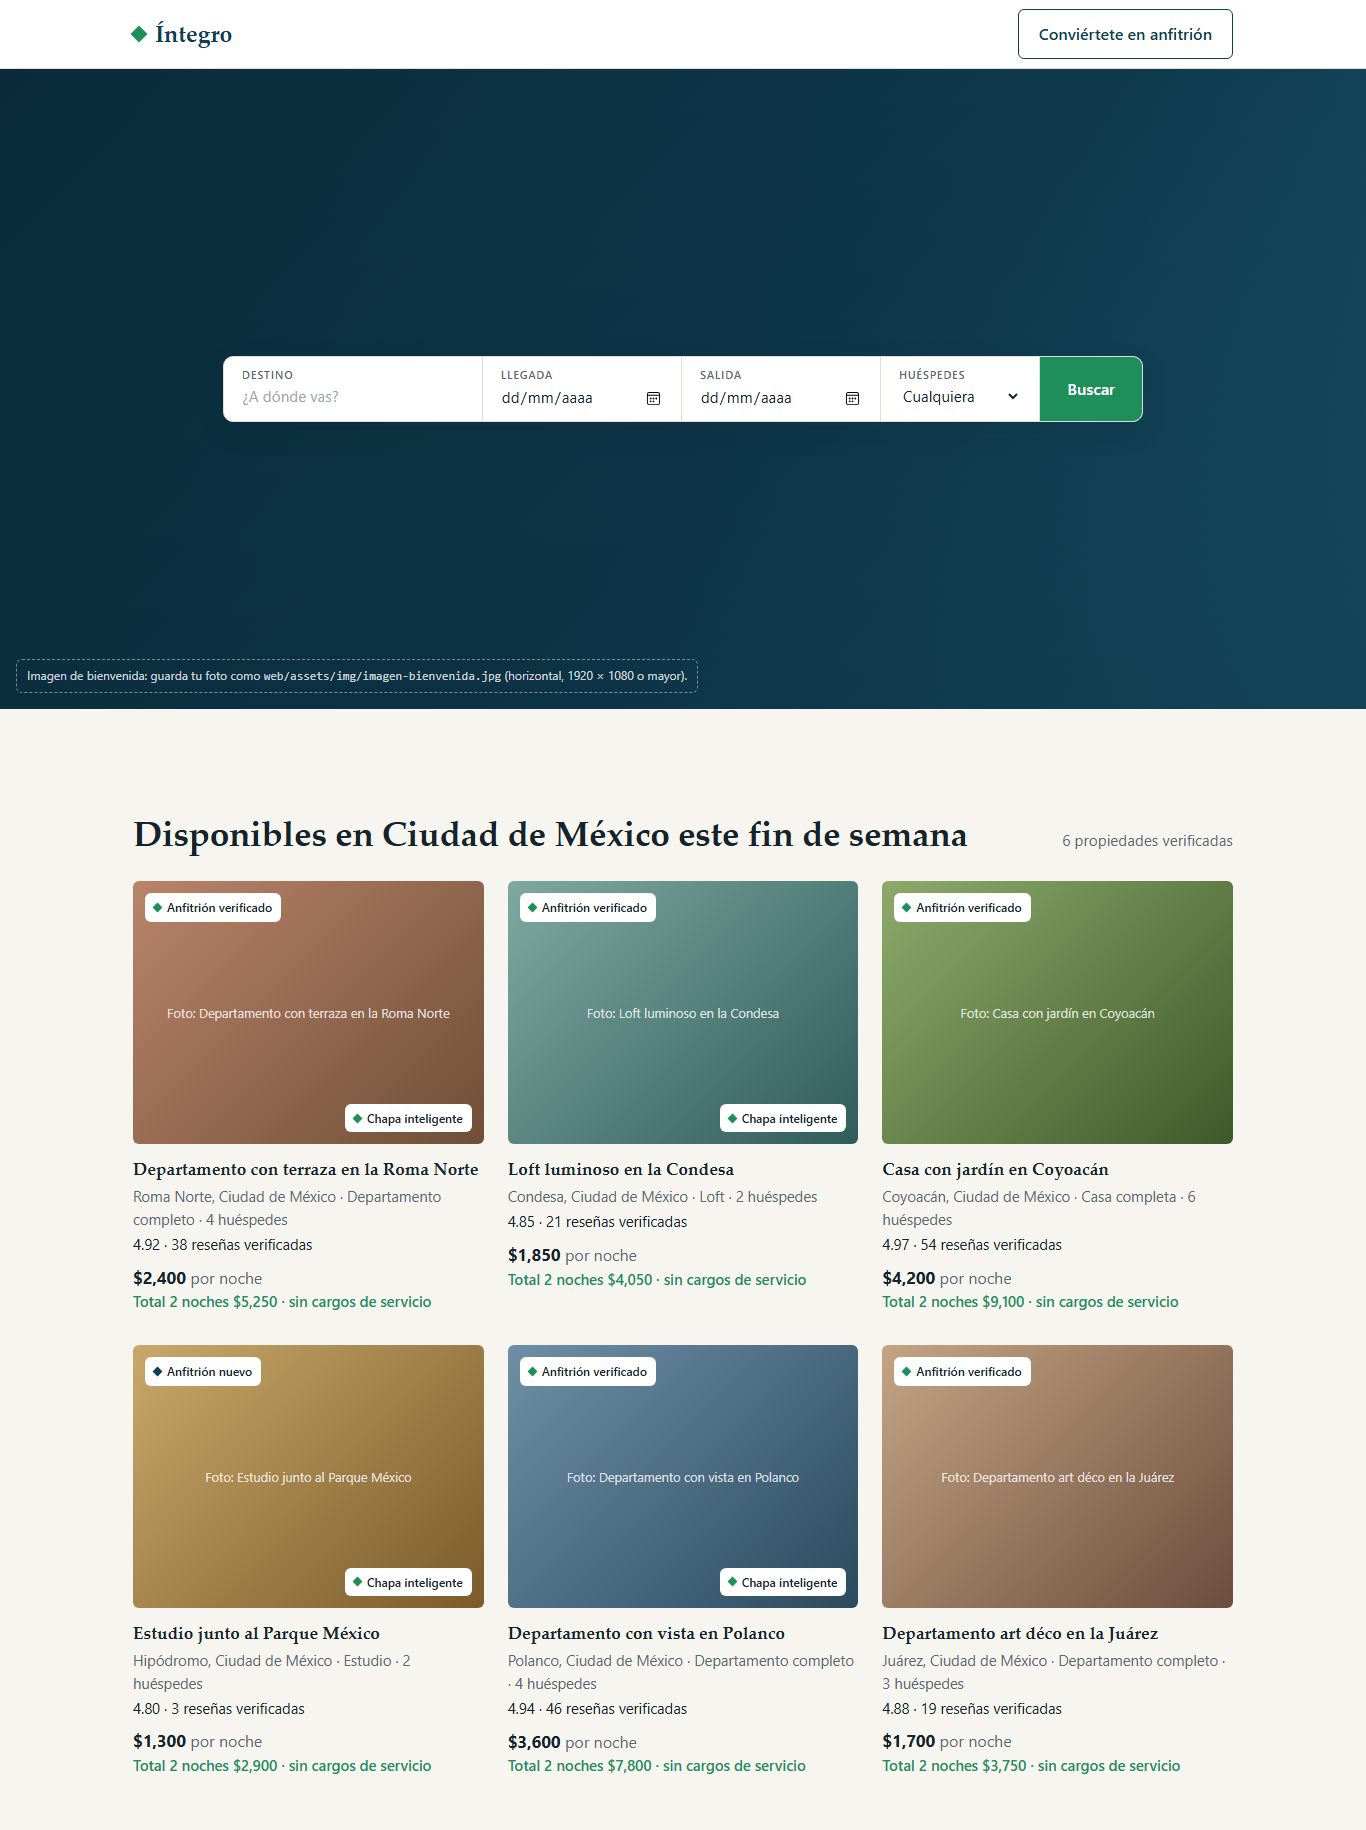
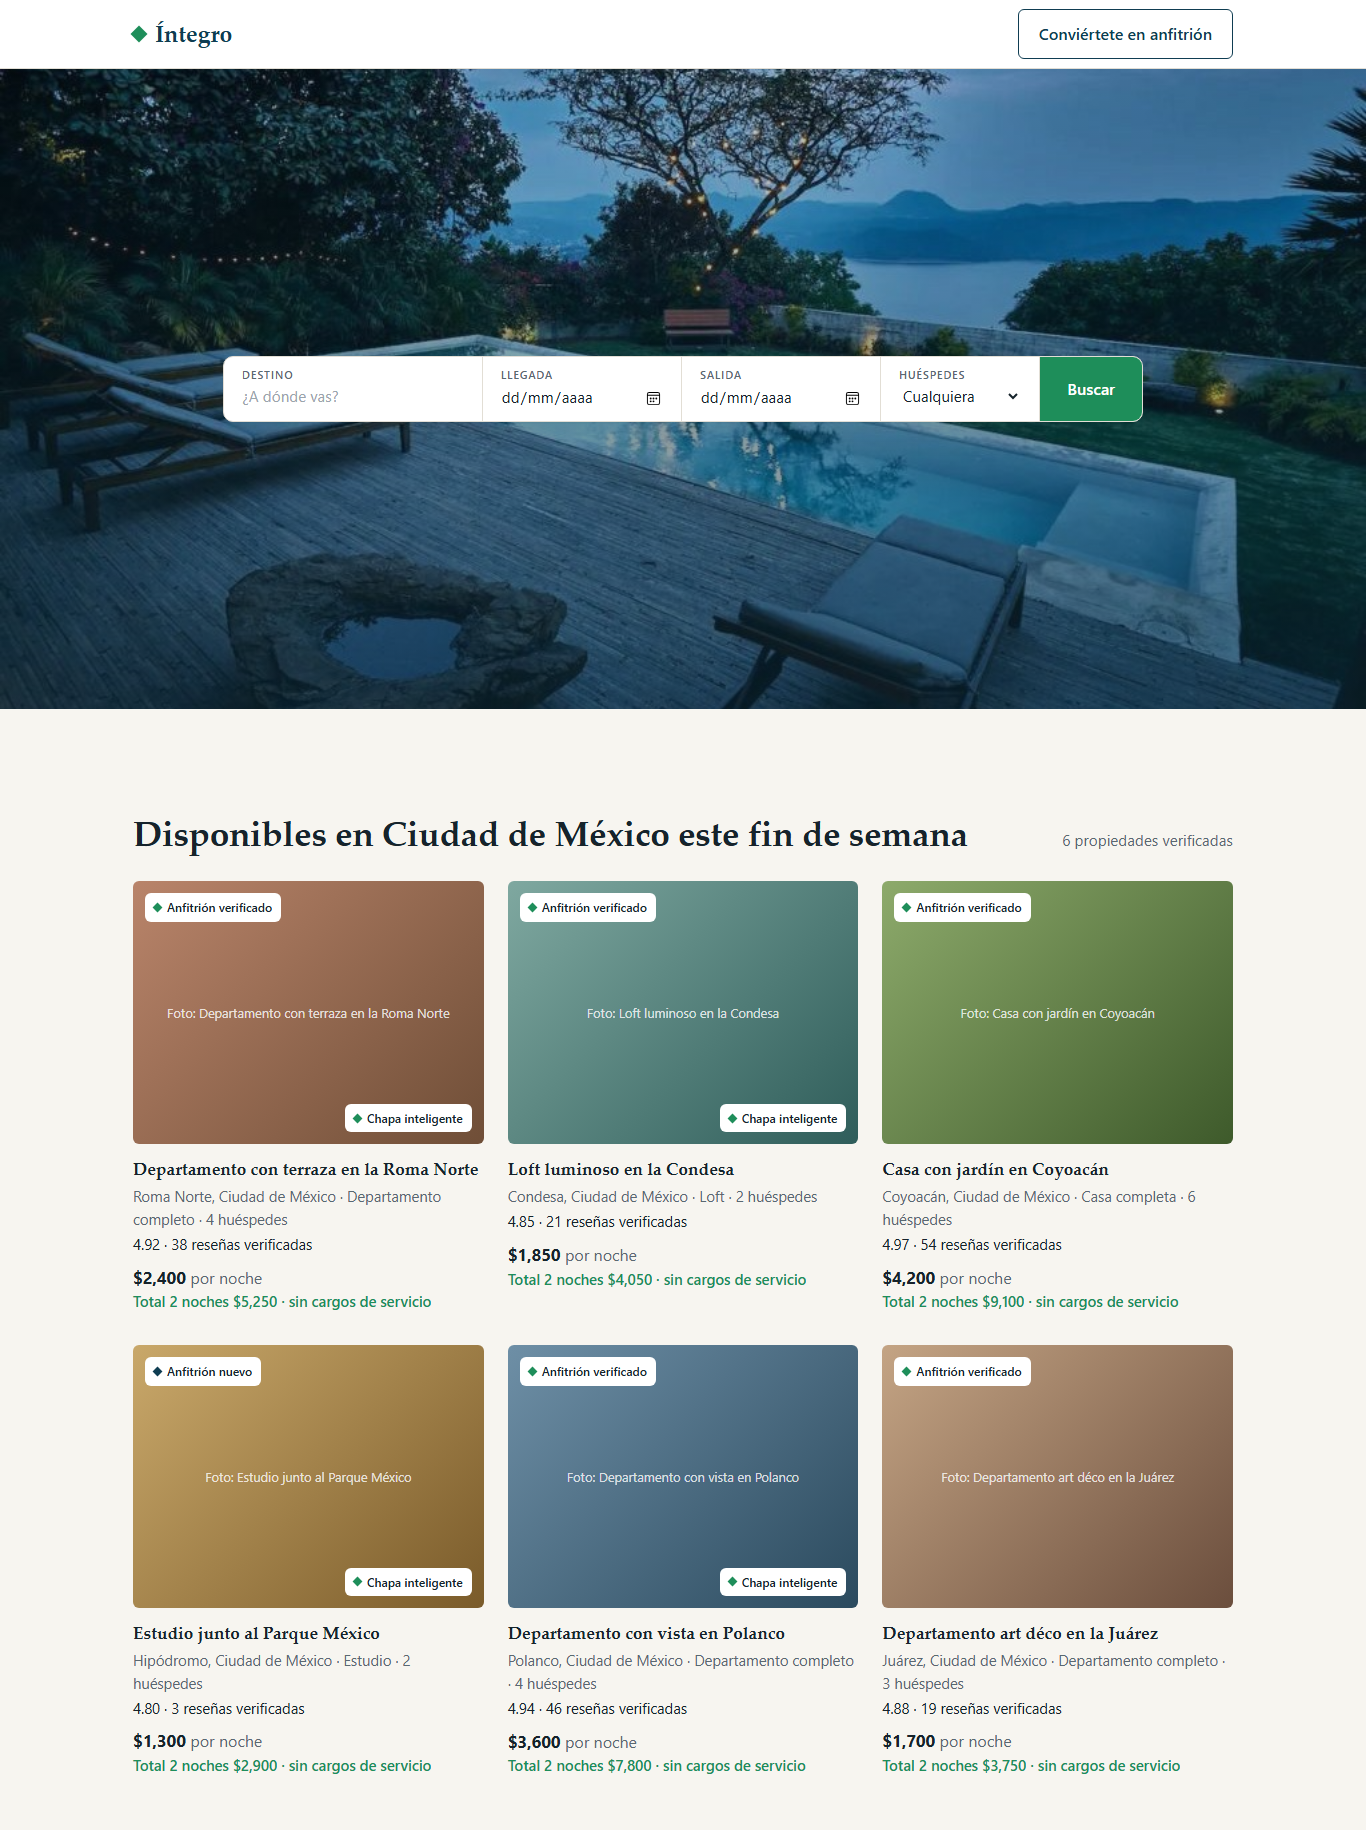
Pie uniforme según la edición de Sophia en GitHub y referencias corregidas tras borrar docs/assignment-2
Sophia simplificó el pie de index.html desde GitHub (solo la marca, sin la
nota del nombre provisional ni la línea de seguridad) y puso el título
"Íntegro". Se aplica el mismo pie a propiedad, anfitriones y cómo funciona
para que las cuatro páginas sean iguales. Como ella eliminó la carpeta
docs/assignment-2, el README y la bitácora dejan de enlazarla: las funciones
candidatas se trabajan fuera del repositorio y se anotan en PROMPT_LOG.md.
Capturas de la portada regeneradas con la imagen de bienvenida real.

Changed region(s): [[0.0, 0.0311, 1.0, 0.4049], [0.0615, 0.3426, 0.0922, 0.3738]]

diff --git a/web/anfitriones.html b/web/anfitriones.html
@@ -107,7 +107,7 @@
   <footer class="pie">
     <div class="contenedor">
       <div class="pie-fila">
-        <p><strong>Íntegro</strong><br>Nombre provisional, sujeto a validación ante el IMPI · Prototipo de octubre de 2026</p>
+        <p><strong>Íntegro</strong></p>
         <a class="btn btn-reportar" href="#">Reportar un problema</a>
       </div>
       <nav aria-label="Pie de página">
@@ -116,7 +116,6 @@
         <a href="#">Términos y condiciones</a>
         <a href="#">Aviso de privacidad</a>
       </nav>
-      <p class="pie-seguridad">Íntegro nunca te pedirá pagar fuera de la plataforma ni tu contraseña por correo. Si alguien lo hace, repórtalo.</p>
     </div>
   </footer>
 

diff --git a/web/propiedad.html b/web/propiedad.html
@@ -145,7 +145,7 @@
   <footer class="pie">
     <div class="contenedor">
       <div class="pie-fila">
-        <p><strong>Íntegro</strong><br>Nombre provisional, sujeto a validación ante el IMPI · Prototipo de octubre de 2026</p>
+        <p><strong>Íntegro</strong></p>
         <a class="btn btn-reportar" href="#">Reportar un problema</a>
       </div>
       <nav aria-label="Pie de página">
@@ -154,7 +154,6 @@
         <a href="#">Términos y condiciones</a>
         <a href="#">Aviso de privacidad</a>
       </nav>
-      <p class="pie-seguridad">Íntegro nunca te pedirá pagar fuera de la plataforma ni tu contraseña por correo. Si alguien lo hace, repórtalo.</p>
     </div>
   </footer>
 

diff --git a/web/como-funciona.html b/web/como-funciona.html
@@ -76,7 +76,7 @@
   <footer class="pie">
     <div class="contenedor">
       <div class="pie-fila">
-        <p><strong>Íntegro</strong><br>Nombre provisional, sujeto a validación ante el IMPI · Prototipo de octubre de 2026</p>
+        <p><strong>Íntegro</strong></p>
         <a class="btn btn-reportar" href="#">Reportar un problema</a>
       </div>
       <nav aria-label="Pie de página">
@@ -85,7 +85,6 @@
         <a href="#">Términos y condiciones</a>
         <a href="#">Aviso de privacidad</a>
       </nav>
-      <p class="pie-seguridad">Íntegro nunca te pedirá pagar fuera de la plataforma ni tu contraseña por correo. Si alguien lo hace, repórtalo.</p>
     </div>
   </footer>
 

diff --git a/docs/diseno/sistema-de-diseno.md b/docs/diseno/sistema-de-diseno.md
@@ -55,7 +55,6 @@ Para cambiar la paleta: editar `:root` en `estilos.css`. Nada más.
 | Tabla comparativa (`.tabla-comparativa`) | Anfitriones, fondo oscuro | Modelo por comisión frente a Íntegro, sin cifras de terceros |
 | Caja de precio (`.caja-precio`) | Ficha, fija al hacer scroll | Desglose con "Comisión de plataforma $0" en verde; es la pantalla donde la promesa de precio total se cumple |
 | Mapa aproximado (`.mapa-aproximado`) | Ficha | Círculo de zona, sin pin exacto: la ubicación exacta solo con reserva confirmada |
-| Aviso de seguridad en el pie (`.pie-seguridad`) | Ambas | "Íntegro nunca te pedirá pagar fuera de la plataforma" (control del documento de ciberseguridad) |
 
 ## Reglas de estilo aplicadas
 

diff --git a/PROMPT_LOG.md b/PROMPT_LOG.md
@@ -33,7 +33,7 @@ Punto de partida del Assignment 1: `[SOPHIA]` (enlace del repo y deploy del Assi
 
 **Función elegida:** `[SOPHIA]`
 
-**Candidatas consideradas:** ver [docs/assignment-2/funciones-candidatas.md](docs/assignment-2/funciones-candidatas.md). `[SOPHIA]`: anota aquí las 2 o 3 que llevaste a la sesión y por qué descartaste las otras.
+**Candidatas consideradas:** `[SOPHIA]` anota aquí las 2 o 3 que llevaste a la sesión y por qué descartaste las otras.
 
 | Campo | Contenido |
 |---|---|
